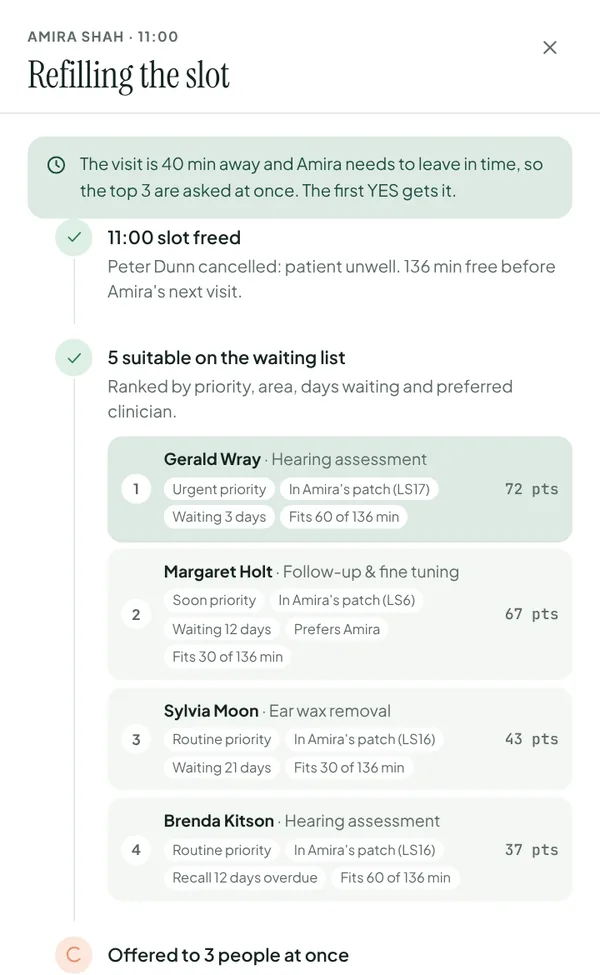
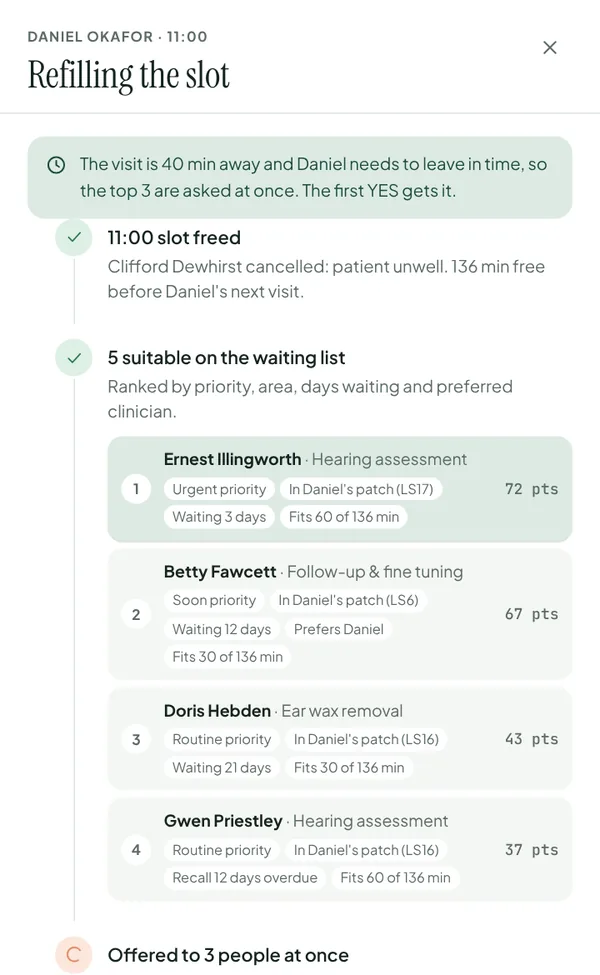
Website: occupational therapy page, and each sector page opens its own demo
A page for community and home occupational therapy, linked from the
homepage, the footer and every sector page. 'Try the live demo' on each
sector page now opens that sector's own demo practice, and the screenshots
show each demo's own team and patients.

Claude-Session: https://claude.ai/code/session_01DKNwFHZS1PTx3YAxmUUBXx

diff --git a/site/occupational-therapy/index.html b/site/occupational-therapy/index.html
@@ -1,0 +1,74 @@
+<!doctype html>
+<html lang="en-GB">
+<head>
+<meta charset="utf-8">
+<meta name="viewport" content="width=device-width, initial-scale=1">
+<title>Software for community and home occupational therapy · Domi</title>
+<meta name="description" content="Domi is the diary for occupational therapists who visit people at home: assessments and equipment visits booked by drive time, cancellations refilled by text, reviews back on time.">
+<meta name="color-scheme" content="dark">
+<meta name="theme-color" content="#0C1412">
+<!--ICONS-->
+<link rel="stylesheet" href="/page.css">
+<link rel="stylesheet" href="/sector.css">
+<!--SOCIAL-->
+<script type="application/ld+json">{"@context":"https://schema.org","@type":"BreadcrumbList","itemListElement":[{"@type":"ListItem","position":1,"name":"Home","item":"%%SITE_URL%%/"},{"@type":"ListItem","position":2,"name":"Occupational therapy","item":"%%SITE_URL%%/occupational-therapy/"}]}</script>
+<script type="application/ld+json">{"@context":"https://schema.org","@type":"FAQPage","mainEntity":[{"@type":"Question","name":"Does Domi replace our clinical system?","acceptedAnswer":{"@type":"Answer","text":"It replaces the admin around the visits: the diary, the spreadsheets, the referral and cancellation forms, and the ringing round when someone cancels. Assessment reports, care plans and equipment orders stay in your clinical system, and Domi works alongside it."}},{"@type":"Question","name":"Can a long assessment and a quick equipment check sit on the same day?","acceptedAnswer":{"@type":"Answer","text":"Yes. Each visit type has its own length, so a 90-minute assessment and a 30-minute equipment review sit on one round, with the driving between them planned."}},{"@type":"Question","name":"Can it take referrals from social workers and discharge teams?","acceptedAnswer":{"@type":"Answer","text":"Yes. They use the same referral form as families and GPs. It asks what's needed and why, and lands in the office queue to accept in one click."}},{"@type":"Question","name":"Where is patient data kept?","acceptedAnswer":{"@type":"Answer","text":"In London, encrypted, with daily backups we test, under a data processing agreement signed before any real patient goes in. The live demo holds invented patients only. Our security page sets out who handles the data and what each sees."}}]}</script>
+<!--ANALYTICS-->
+</head>
+<body>
+<a class="skip" href="#main">Skip to content</a>
+<div class="wrap wide">
+  <nav class="top" aria-label="Main"><a class="brand" href="/"><img src="/logo.svg" alt="" width="40" height="40">Domi</a><a class="btn btn-main" href="/#contact">Book a demo</a></nav>
+</div>
+<main id="main" class="wrap wide">
+  <nav class="crumbs" aria-label="Breadcrumb"><ol><li><a href="/">Home</a></li><li><span aria-current="page">Occupational therapy</span></li></ol></nav>
+  <header class="hero-s">
+    <h1>Home OT, from referral to the right equipment.</h1>
+    <p class="lede">Long assessments, home safety checks and equipment visits across the whole patch, with referrals from families, GPs, social workers and discharge teams. Domi books each visit where it adds the least driving, refills cancellations by text and brings people back for their reviews on time.</p>
+    <div class="actions"><a class="btn btn-main" href="/#contact">Book a demo</a><a class="btn btn-line" href="%%DEMO_URL:ot%%" rel="noopener">Try the live demo</a></div>
+  </header>
+
+  <section class="s-sec" aria-labelledby="day">
+    <h2 id="day">A day on the round, with Domi</h2>
+    <div class="s-grid"><article class="s-card"><div class="shot"><img src="/shots/occupational-therapy/refill.webp" width="600" height="975" alt="Refilling a cancelled visit: patients on the waiting list ranked for the slot, with OT assessments, equipment fittings and reviews." loading="lazy" decoding="async"></div><div class="txt"><h3>Cancelled visits, refilled</h3><p>A cancelled assessment or fitting is offered by text to the best-matched people waiting nearby, so someone just home from hospital can take it this week.</p></div></article><article class="s-card"><div class="shot"><img src="/shots/occupational-therapy/today.webp" width="600" height="975" alt="The OT's day on a phone: the person they're with now and the visit, with buttons to complete it." loading="lazy" decoding="async"></div><div class="txt"><h3>The round on the phone</h3><p>Who's next, the address and access notes, and one tap to complete the visit or say it couldn't go ahead.</p></div></article><article class="s-card"><div class="shot"><img src="/shots/occupational-therapy/record.webp" width="600" height="975" alt="Visit notes on the phone, with quick notes for the assessment, equipment fitted and home hazards." loading="lazy" decoding="async"></div><div class="txt"><h3>Notes in a tap</h3><p>Quick notes for the assessment, equipment fitted, home hazards and the carer shown how to help, saved even without signal.</p></div></article></div>
+  </section>
+
+  <section class="s-sec" aria-labelledby="fit">
+    <h2 id="fit">Made for occupational therapy at home</h2>
+    <ul class="fit"><li><b>The right person for each visit</b><span>Equipment fittings and reviews can go to an OT assistant; assessments and home safety checks only to your occupational therapists. You tell us who does what.</span></li><li><b>Reviews back on time</b><span>People due an equipment or falls review join the waiting list at the interval you set, so they're first for a cancelled slot near them.</span></li><li><b>Long visits planned properly</b><span>A 90-minute assessment is only offered where it fits the day and the drive, and the rest of the round is planned around it.</span></li><li><b>Referrals from everyone</b><span>Families, GPs, social workers and discharge teams use the same form, so nothing arrives on paper or gets lost in an inbox.</span></li></ul>
+  </section>
+
+  <section class="s-sec" aria-labelledby="types">
+    <h2 id="types">Your visit types, set up for you</h2>
+    <ul class="types"><li>OT assessment</li><li>Home safety assessment</li><li>Equipment fitting</li><li>Equipment review</li><li>Progress review</li></ul>
+  </section>
+
+  <section class="s-sec" aria-labelledby="state">
+    <h2 id="state">What's built, and what isn't yet</h2>
+    <div class="state">
+      <div><h3><span class="pill now">Working today</span></h3><ul><li>Cancelled visits offered by text to patients waiting nearby</li><li>Each clinician's route planned, with real road drive times</li><li>A referral form for families, carers and care homes</li><li>Patient details, alerts and visit history on the clinician's phone, even offline</li><li>A booking page that offers patients times near them</li><li>Patients due back joining the waiting list automatically</li><li>A day that re-plans itself after a cancellation, or that you reorder by hand</li><li>Patients' own time limits, such as mornings only, kept by booking and routing</li><li>Reports on visits, cancellations and mileage, all exportable</li><li>A mileage report, and invoices for private visits</li><li>Two-factor sign-in, with every record opened logged</li></ul></div>
+      <div><h3><span class="pill set">Set up with you</span></h3><ul><li>Your visit types, lengths and prices</li><li>Who can do which kind of visit</li><li>The towns and postcodes you cover</li><li>Your team and their working hours</li><li>Your logo and colours on patient pages</li><li>Importing your current patient list</li></ul></div>
+      <div><h3><span class="pill soon">Not built yet</span></h3><ul><li>Tracking equipment from order to fitting</li><li>Assessment report templates</li><li>Invoices to councils and case managers</li></ul></div>
+      <div><h3><span class="pill keep">Your clinical system</span></h3><ul><li>Assessment reports</li><li>Care plans</li><li>Equipment orders</li></ul></div>
+    </div>
+  </section>
+
+  <section class="s-sec" aria-labelledby="move">
+    <h2 id="move">Moving across from spreadsheets and paper</h2>
+    <ol class="steps"><li><b>Send us what you have</b><span>Your spreadsheet, a practice-system export or the paper diary. Column headings first, so we can plan the move before any patient data changes hands.</span></li><li><b>We check every row</b><span>The import flags postcodes that are really town names, duplicates, patients with only a landline and missing details, so nothing goes in wrong.</span></li><li><b>We set it up for you</b><span>Your visit types, the towns you cover, your team and their working hours, and your logo on everything patients see.</span></li><li><b>Try it, then switch</b><span>Your team runs real days alongside the old way until they're happy. Most practices are live in about four weeks.</span></li></ol>
+  </section>
+
+  <section class="s-sec faq" aria-labelledby="qs">
+    <h2 id="qs">Questions OTs ask</h2>
+    <details><summary>Does Domi replace our clinical system?</summary><p>It replaces the admin around the visits: the diary, the spreadsheets, the referral and cancellation forms, and the ringing round when someone cancels. Assessment reports, care plans and equipment orders stay in your clinical system, and Domi works alongside it.</p></details><details><summary>Can a long assessment and a quick equipment check sit on the same day?</summary><p>Yes. Each visit type has its own length, so a 90-minute assessment and a 30-minute equipment review sit on one round, with the driving between them planned.</p></details><details><summary>Can it take referrals from social workers and discharge teams?</summary><p>Yes. They use the same referral form as families and GPs. It asks what's needed and why, and lands in the office queue to accept in one click.</p></details><details><summary>Where is patient data kept?</summary><p>In London, encrypted, with daily backups we test, under a data processing agreement signed before any real patient goes in. The live demo holds invented patients only. Our <a href="/security/">security page</a> sets out who handles the data and what each sees.</p></details>
+  </section>
+
+  <div class="cta">
+    <h2>See Domi with your own visit types.</h2>
+    <div class="actions"><a class="btn btn-main" href="/#contact">Book a demo</a><a class="btn btn-line" href="%%DEMO_URL:ot%%" rel="noopener">Try the live demo</a></div>
+  </div>
+  <p class="others">Domi also works for <a href="/domiciliary-opticians/">domiciliary opticians</a>, <a href="/audiology/">audiology</a>, <a href="/podiatry/">podiatry</a>, <a href="/physiotherapy/">physiotherapy</a>, <a href="/dental/">dental care</a>, <a href="/nursing/">home nursing</a>, and <a href="/#sectors">other home-visit services</a>.</p>
+</main>
+<footer><div class="wrap"><p>Domi is made by YSB Ventures Ltd, registered in England and Wales, company number 16022339.</p><p><a href="mailto:%%EMAIL%%">%%EMAIL%%</a></p><p><a href="/security/">Security</a> · <a href="/privacy/">Privacy policy</a> · <a href="/terms/">Terms and conditions</a> · <a href="/#contact">Contact</a></p></div></footer>
+</body>
+</html>

diff --git a/site/nursing/index.html b/site/nursing/index.html
@@ -25,7 +25,7 @@
   <header class="hero-s">
     <h1>More home visits a day, less time on the phone.</h1>
     <p class="lede">Blood tests, wound dressings and injections are short visits, so one cancellation can wipe out the slot and the drive. Domi offers it to the next patient nearby who's waiting, keeps fasting bloods in the morning, and plans each round so more of the day is spent with patients.</p>
-    <div class="actions"><a class="btn btn-main" href="/#contact">Book a demo</a><a class="btn btn-line" href="%%DEMO_URL%%" rel="noopener">Try the live demo</a></div>
+    <div class="actions"><a class="btn btn-main" href="/#contact">Book a demo</a><a class="btn btn-line" href="%%DEMO_URL:nursing%%" rel="noopener">Try the live demo</a></div>
   </header>
 
   <section class="s-sec" aria-labelledby="day">
@@ -65,9 +65,9 @@
 
   <div class="cta">
     <h2>See Domi with your own visit types.</h2>
-    <div class="actions"><a class="btn btn-main" href="/#contact">Book a demo</a><a class="btn btn-line" href="%%DEMO_URL%%" rel="noopener">Try the live demo</a></div>
+    <div class="actions"><a class="btn btn-main" href="/#contact">Book a demo</a><a class="btn btn-line" href="%%DEMO_URL:nursing%%" rel="noopener">Try the live demo</a></div>
   </div>
-  <p class="others">Domi also works for <a href="/domiciliary-opticians/">domiciliary opticians</a>, <a href="/audiology/">audiology</a>, <a href="/podiatry/">podiatry</a>, <a href="/physiotherapy/">physiotherapy</a>, <a href="/dental/">dental care</a>, and <a href="/#sectors">other home-visit services</a>.</p>
+  <p class="others">Domi also works for <a href="/domiciliary-opticians/">domiciliary opticians</a>, <a href="/audiology/">audiology</a>, <a href="/podiatry/">podiatry</a>, <a href="/physiotherapy/">physiotherapy</a>, <a href="/dental/">dental care</a>, <a href="/occupational-therapy/">occupational therapy</a>, and <a href="/#sectors">other home-visit services</a>.</p>
 </main>
 <footer><div class="wrap"><p>Domi is made by YSB Ventures Ltd, registered in England and Wales, company number 16022339.</p><p><a href="mailto:%%EMAIL%%">%%EMAIL%%</a></p><p><a href="/security/">Security</a> · <a href="/privacy/">Privacy policy</a> · <a href="/terms/">Terms and conditions</a> · <a href="/#contact">Contact</a></p></div></footer>
 </body>

diff --git a/site/dental/index.html b/site/dental/index.html
@@ -25,7 +25,7 @@
   <header class="hero-s">
     <h1>Dental care at home, without the diary juggling.</h1>
     <p class="lede">Check-ups, treatment and denture visits in homes and care homes, with the equipment in the car and patients spread across the patch. When one cancels, Domi offers the slot to someone nearby who's waiting, and plans each round so the driving shrinks.</p>
-    <div class="actions"><a class="btn btn-main" href="/#contact">Book a demo</a><a class="btn btn-line" href="%%DEMO_URL%%" rel="noopener">Try the live demo</a></div>
+    <div class="actions"><a class="btn btn-main" href="/#contact">Book a demo</a><a class="btn btn-line" href="%%DEMO_URL:dental%%" rel="noopener">Try the live demo</a></div>
   </header>
 
   <section class="s-sec" aria-labelledby="day">
@@ -65,9 +65,9 @@
 
   <div class="cta">
     <h2>See Domi with your own visit types.</h2>
-    <div class="actions"><a class="btn btn-main" href="/#contact">Book a demo</a><a class="btn btn-line" href="%%DEMO_URL%%" rel="noopener">Try the live demo</a></div>
+    <div class="actions"><a class="btn btn-main" href="/#contact">Book a demo</a><a class="btn btn-line" href="%%DEMO_URL:dental%%" rel="noopener">Try the live demo</a></div>
   </div>
-  <p class="others">Domi also works for <a href="/domiciliary-opticians/">domiciliary opticians</a>, <a href="/audiology/">audiology</a>, <a href="/podiatry/">podiatry</a>, <a href="/physiotherapy/">physiotherapy</a>, <a href="/nursing/">home nursing</a>, and <a href="/#sectors">other home-visit services</a>.</p>
+  <p class="others">Domi also works for <a href="/domiciliary-opticians/">domiciliary opticians</a>, <a href="/audiology/">audiology</a>, <a href="/podiatry/">podiatry</a>, <a href="/physiotherapy/">physiotherapy</a>, <a href="/nursing/">home nursing</a>, <a href="/occupational-therapy/">occupational therapy</a>, and <a href="/#sectors">other home-visit services</a>.</p>
 </main>
 <footer><div class="wrap"><p>Domi is made by YSB Ventures Ltd, registered in England and Wales, company number 16022339.</p><p><a href="mailto:%%EMAIL%%">%%EMAIL%%</a></p><p><a href="/security/">Security</a> · <a href="/privacy/">Privacy policy</a> · <a href="/terms/">Terms and conditions</a> · <a href="/#contact">Contact</a></p></div></footer>
 </body>

diff --git a/site/podiatry/index.html b/site/podiatry/index.html
@@ -25,7 +25,7 @@
   <header class="hero-s">
     <h1>Keep every home foot-care round full.</h1>
     <p class="lede">Nail care, diabetic foot checks and wound reviews fill whole days of home visits, and one cancellation leaves a gap and a wasted drive. Domi offers that slot to someone nearby who's waiting, and plans the round so the driving shrinks.</p>
-    <div class="actions"><a class="btn btn-main" href="/#contact">Book a demo</a><a class="btn btn-line" href="%%DEMO_URL%%" rel="noopener">Try the live demo</a></div>
+    <div class="actions"><a class="btn btn-main" href="/#contact">Book a demo</a><a class="btn btn-line" href="%%DEMO_URL:podiatry%%" rel="noopener">Try the live demo</a></div>
   </header>
 
   <section class="s-sec" aria-labelledby="day">
@@ -65,9 +65,9 @@
 
   <div class="cta">
     <h2>See Domi with your own visit types.</h2>
-    <div class="actions"><a class="btn btn-main" href="/#contact">Book a demo</a><a class="btn btn-line" href="%%DEMO_URL%%" rel="noopener">Try the live demo</a></div>
+    <div class="actions"><a class="btn btn-main" href="/#contact">Book a demo</a><a class="btn btn-line" href="%%DEMO_URL:podiatry%%" rel="noopener">Try the live demo</a></div>
   </div>
-  <p class="others">Domi also works for <a href="/domiciliary-opticians/">domiciliary opticians</a>, <a href="/audiology/">audiology</a>, <a href="/physiotherapy/">physiotherapy</a>, <a href="/dental/">dental care</a>, <a href="/nursing/">home nursing</a>, and <a href="/#sectors">other home-visit services</a>.</p>
+  <p class="others">Domi also works for <a href="/domiciliary-opticians/">domiciliary opticians</a>, <a href="/audiology/">audiology</a>, <a href="/physiotherapy/">physiotherapy</a>, <a href="/dental/">dental care</a>, <a href="/nursing/">home nursing</a>, <a href="/occupational-therapy/">occupational therapy</a>, and <a href="/#sectors">other home-visit services</a>.</p>
 </main>
 <footer><div class="wrap"><p>Domi is made by YSB Ventures Ltd, registered in England and Wales, company number 16022339.</p><p><a href="mailto:%%EMAIL%%">%%EMAIL%%</a></p><p><a href="/security/">Security</a> · <a href="/privacy/">Privacy policy</a> · <a href="/terms/">Terms and conditions</a> · <a href="/#contact">Contact</a></p></div></footer>
 </body>

diff --git a/site/audiology/index.html b/site/audiology/index.html
@@ -25,7 +25,7 @@
   <header class="hero-s">
     <h1>A hearing-care diary that travels to the patient.</h1>
     <p class="lede">Hearing tests, fittings, wax removal and aid reviews, in homes and care homes across your area. Domi fills the gaps cancellations leave, plans each clinician's round, and keeps the records on their phone.</p>
-    <div class="actions"><a class="btn btn-main" href="/#contact">Book a demo</a><a class="btn btn-line" href="%%DEMO_URL%%" rel="noopener">Try the live demo</a></div>
+    <div class="actions"><a class="btn btn-main" href="/#contact">Book a demo</a><a class="btn btn-line" href="%%DEMO_URL:hearing%%" rel="noopener">Try the live demo</a></div>
   </header>
 
   <section class="s-sec" aria-labelledby="day">
@@ -65,9 +65,9 @@
 
   <div class="cta">
     <h2>See Domi with your own visit types.</h2>
-    <div class="actions"><a class="btn btn-main" href="/#contact">Book a demo</a><a class="btn btn-line" href="%%DEMO_URL%%" rel="noopener">Try the live demo</a></div>
+    <div class="actions"><a class="btn btn-main" href="/#contact">Book a demo</a><a class="btn btn-line" href="%%DEMO_URL:hearing%%" rel="noopener">Try the live demo</a></div>
   </div>
-  <p class="others">Domi also works for <a href="/domiciliary-opticians/">domiciliary opticians</a>, <a href="/podiatry/">podiatry</a>, <a href="/physiotherapy/">physiotherapy</a>, <a href="/dental/">dental care</a>, <a href="/nursing/">home nursing</a>, and <a href="/#sectors">other home-visit services</a>.</p>
+  <p class="others">Domi also works for <a href="/domiciliary-opticians/">domiciliary opticians</a>, <a href="/podiatry/">podiatry</a>, <a href="/physiotherapy/">physiotherapy</a>, <a href="/dental/">dental care</a>, <a href="/nursing/">home nursing</a>, <a href="/occupational-therapy/">occupational therapy</a>, and <a href="/#sectors">other home-visit services</a>.</p>
 </main>
 <footer><div class="wrap"><p>Domi is made by YSB Ventures Ltd, registered in England and Wales, company number 16022339.</p><p><a href="mailto:%%EMAIL%%">%%EMAIL%%</a></p><p><a href="/security/">Security</a> · <a href="/privacy/">Privacy policy</a> · <a href="/terms/">Terms and conditions</a> · <a href="/#contact">Contact</a></p></div></footer>
 </body>

diff --git a/site/physiotherapy/index.html b/site/physiotherapy/index.html
@@ -25,7 +25,7 @@
   <header class="hero-s">
     <h1>Home physio, without the diary juggling.</h1>
     <p class="lede">Long sessions, patients spread across several towns, and referrals arriving from families, wards and case managers. Domi plans each physio's day, refills cancelled sessions and keeps the notes on their phone.</p>
-    <div class="actions"><a class="btn btn-main" href="/#contact">Book a demo</a><a class="btn btn-line" href="%%DEMO_URL%%" rel="noopener">Try the live demo</a></div>
+    <div class="actions"><a class="btn btn-main" href="/#contact">Book a demo</a><a class="btn btn-line" href="%%DEMO_URL:physio%%" rel="noopener">Try the live demo</a></div>
   </header>
 
   <section class="s-sec" aria-labelledby="day">
@@ -65,9 +65,9 @@
 
   <div class="cta">
     <h2>See Domi with your own visit types.</h2>
-    <div class="actions"><a class="btn btn-main" href="/#contact">Book a demo</a><a class="btn btn-line" href="%%DEMO_URL%%" rel="noopener">Try the live demo</a></div>
+    <div class="actions"><a class="btn btn-main" href="/#contact">Book a demo</a><a class="btn btn-line" href="%%DEMO_URL:physio%%" rel="noopener">Try the live demo</a></div>
   </div>
-  <p class="others">Domi also works for <a href="/domiciliary-opticians/">domiciliary opticians</a>, <a href="/audiology/">audiology</a>, <a href="/podiatry/">podiatry</a>, <a href="/dental/">dental care</a>, <a href="/nursing/">home nursing</a>, and <a href="/#sectors">other home-visit services</a>.</p>
+  <p class="others">Domi also works for <a href="/domiciliary-opticians/">domiciliary opticians</a>, <a href="/audiology/">audiology</a>, <a href="/podiatry/">podiatry</a>, <a href="/dental/">dental care</a>, <a href="/nursing/">home nursing</a>, <a href="/occupational-therapy/">occupational therapy</a>, and <a href="/#sectors">other home-visit services</a>.</p>
 </main>
 <footer><div class="wrap"><p>Domi is made by YSB Ventures Ltd, registered in England and Wales, company number 16022339.</p><p><a href="mailto:%%EMAIL%%">%%EMAIL%%</a></p><p><a href="/security/">Security</a> · <a href="/privacy/">Privacy policy</a> · <a href="/terms/">Terms and conditions</a> · <a href="/#contact">Contact</a></p></div></footer>
 </body>

diff --git a/site/index.html b/site/index.html
@@ -603,8 +603,8 @@
           <p>Fasting patients marked mornings-only stay in the morning when routes are planned, and anyone who can't be texted is phoned. <a class="more" href="/nursing/">Domi for home nursing →</a></p></li>
         <li class="sector"><h3>Nursing at home</h3>
           <p>Visit notes on the phone even without signal, the day's route on a street map, and every record anyone opens logged. <a class="more" href="/nursing/">Domi for home nursing →</a></p></li>
-        <li class="sector"><h3>Therapy assessments</h3>
-          <p>Referrals from families, GPs and social workers through one form, then assessments booked by drive time across the patch.</p></li>
+        <li class="sector"><h3>Occupational therapy</h3>
+          <p>Referrals from families, GPs and social workers through one form, then assessments booked by drive time across the patch. <a class="more" href="/occupational-therapy/">Domi for occupational therapy →</a></p></li>
       </ul>
     </div>
   </section>
@@ -989,7 +989,7 @@
   <div class="wrap">
     <p><a href="mailto:%%EMAIL%%">%%EMAIL%%</a></p>
     <p>Domi is made by YSB Ventures Ltd, registered in England and Wales, company number 16022339.</p>
-    <p>Domi for <a href="/domiciliary-opticians/">domiciliary opticians</a> · <a href="/audiology/">audiology</a> · <a href="/podiatry/">podiatry</a> · <a href="/physiotherapy/">physiotherapy</a> · <a href="/dental/">dental care</a> · <a href="/nursing/">home nursing</a></p>
+    <p>Domi for <a href="/domiciliary-opticians/">domiciliary opticians</a> · <a href="/audiology/">audiology</a> · <a href="/podiatry/">podiatry</a> · <a href="/physiotherapy/">physiotherapy</a> · <a href="/dental/">dental care</a> · <a href="/nursing/">home nursing</a> · <a href="/occupational-therapy/">occupational therapy</a></p>
     <p><a href="/security/">Security</a> · <a href="/privacy/">Privacy policy</a> · <a href="/terms/">Terms and conditions</a> · <a href="#contact">Contact</a></p>
   </div>
 </footer>

diff --git a/site/domiciliary-opticians/index.html b/site/domiciliary-opticians/index.html
@@ -67,7 +67,7 @@
     <h2>See Domi with your own visit types.</h2>
     <div class="actions"><a class="btn btn-main" href="/#contact">Book a demo</a><a class="btn btn-line" href="%%DEMO_URL%%" rel="noopener">Try the live demo</a></div>
   </div>
-  <p class="others">Domi also works for <a href="/audiology/">audiology</a>, <a href="/podiatry/">podiatry</a>, <a href="/physiotherapy/">physiotherapy</a>, <a href="/dental/">dental care</a>, <a href="/nursing/">home nursing</a>, and <a href="/#sectors">other home-visit services</a>.</p>
+  <p class="others">Domi also works for <a href="/audiology/">audiology</a>, <a href="/podiatry/">podiatry</a>, <a href="/physiotherapy/">physiotherapy</a>, <a href="/dental/">dental care</a>, <a href="/nursing/">home nursing</a>, <a href="/occupational-therapy/">occupational therapy</a>, and <a href="/#sectors">other home-visit services</a>.</p>
 </main>
 <footer><div class="wrap"><p>Domi is made by YSB Ventures Ltd, registered in England and Wales, company number 16022339.</p><p><a href="mailto:%%EMAIL%%">%%EMAIL%%</a></p><p><a href="/security/">Security</a> · <a href="/privacy/">Privacy policy</a> · <a href="/terms/">Terms and conditions</a> · <a href="/#contact">Contact</a></p></div></footer>
 </body>

diff --git a/scripts/build-site.js b/scripts/build-site.js
@@ -65,6 +65,8 @@ for (const file of pages) {
   const rel = path.relative(out, file), url = urlOf(rel);
   let html = fs.readFileSync(file, "utf8");
   html = html.replace("<!--ICONS-->", icons).replace("<!--ANALYTICS-->", analytics).replace("<!--SOCIAL-->", () => socialFor(html, url));
+  // %%DEMO_URL:<brand>%% is the demo opened as one sector's practice, such as %%DEMO_URL:hearing%% on the audiology page.
+  html = html.replace(/%%DEMO_URL:([a-z]+)%%/g, (m, brand) => { const u = new URL(cfg.DEMO_URL); u.searchParams.set("brand", brand); return esc(u.href); });
   for (const [k, v] of Object.entries(cfg)) html = html.split(`%%${k}%%`).join(esc(v));
   const left = html.match(/%%[A-Z0-9_]+%%|<!--(ICONS|SOCIAL|ANALYTICS)-->/);
   if (left) throw new Error(`${rel} uses ${left[0]}, which build-site.js doesn't fill in`);

diff --git a/test/site.test.js b/test/site.test.js
@@ -33,7 +33,7 @@ const build = (env) => {
   return { out, read: (f) => fs.readFileSync(path.join(out, f), "utf8"), done: () => fs.rmSync(out, { recursive: true, force: true }) };
 };
 
-const SECTORS = ["domiciliary-opticians", "audiology", "podiatry", "physiotherapy", "dental", "nursing"];
+const SECTORS = ["domiciliary-opticians", "audiology", "podiatry", "physiotherapy", "dental", "nursing", "occupational-therapy"];
 
 test("privacy, terms, thank-you, not-found and sector pages: titles, descriptions, previews, breadcrumbs and working links", () => {
   const b = build({});
